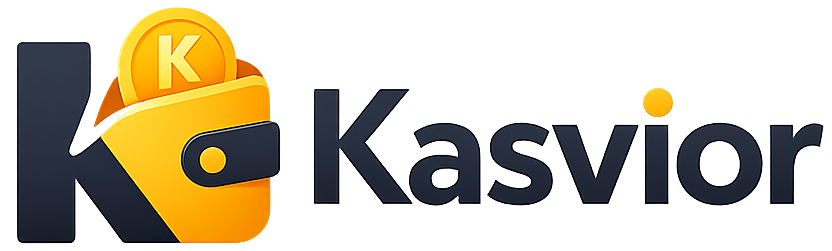
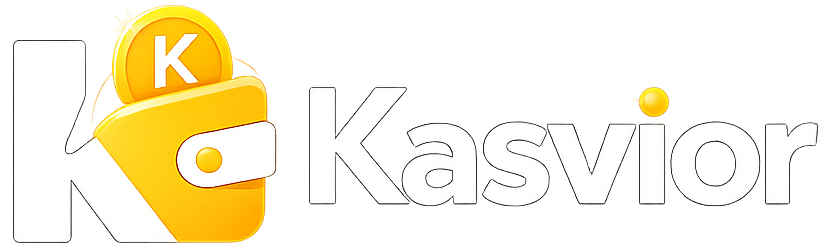
chore(components): update wallet image class for consistency across AuthHeader, DashboardHeader, Footer, and Navbar

diff --git a/src/components/organisms/Footer.jsx b/src/components/organisms/Footer.jsx
@@ -7,12 +7,7 @@ const Footer = () => {
         <div className="grid grid-cols-1 mb-10 gap-11 md:grid-cols-2 lg:grid-cols-[2fr_1fr_1fr_1.5fr]">
           <div className="max-w-full sm:max-w-66.25">
             <div className="flex items-center gap-2.5 text-xl font-semibold font-logo">
-              <img
-                src="/money-wallet.png"
-                alt="wallet"
-                className="w-12.5 h-12.5"
-              />
-              <span>Kasvior</span>
+              <img src="/money-wallet.png" alt="wallet" className="h-12.5" />
             </div>
             <p className="mt-6 text-[0.95rem] font-normal opacity-70 leading-relaxed">
               Clarity gives you the blocks and components you need to create a

diff --git a/src/components/organisms/AuthHeader.jsx b/src/components/organisms/AuthHeader.jsx
@@ -3,8 +3,7 @@ const AuthHeader = ({ title, subtitle }) => {
     <>
       <header className="mb-2">
         <div className="flex items-center gap-2.5 text-xl font-semibold text-blue-700 font-logo">
-          <img src="/money-wallet.png" alt="wallet" className="w-8 h-8" />
-          <span>Kasvior</span>
+          <img src="/money-wallet.png" alt="wallet" className="h-8" />
         </div>
       </header>
 

diff --git a/src/components/organisms/DashboardHeader.jsx b/src/components/organisms/DashboardHeader.jsx
@@ -41,8 +41,7 @@ function DashboardHeader() {
         onClick={() => navigate("/")}
         className="cursor-pointer flex items-center gap-2.5 text-xl font-semibold text-blue-600 font-logo"
       >
-        <img src="/money-wallet.png" alt="wallet" width="32" />
-        <span>Kasvior</span>
+        <img src="/money-wallet.png" alt="wallet" />
       </div>
       <div
         className="relative flex items-center gap-3 cursor-pointer"

diff --git a/src/components/organisms/Navbar.jsx b/src/components/organisms/Navbar.jsx
@@ -36,9 +36,8 @@ const Navbar = () => {
           <img
             src="/money-wallet.png"
             alt="wallet"
-            className="w-8 h-8 drop-shadow-sm"
+            className="h-8 drop-shadow-sm"
           />
-          <span>Kasvior</span>
         </div>
         <nav>
           <div className="flex items-center gap-2 sm:gap-4">